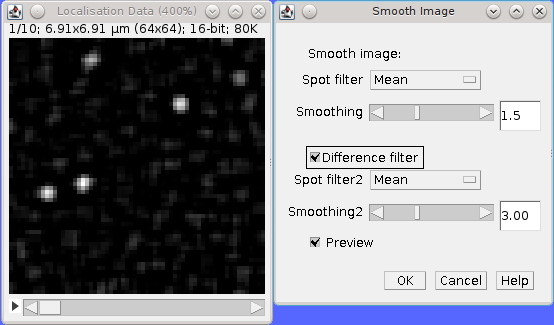
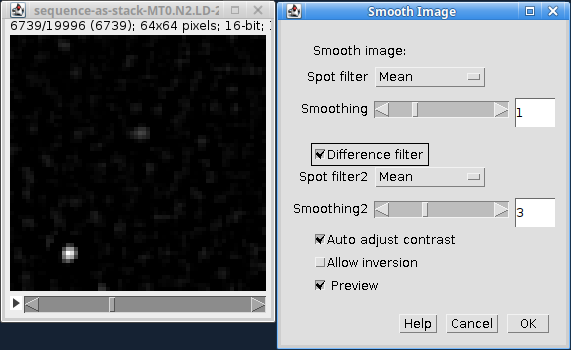
Update Smooth Image docs

diff --git a/docs/tools_plugins.rst b/docs/tools_plugins.rst
@@ -24,7 +24,7 @@ Provides a filter plugin for smoothing an image (see :numref:`Table %s <table_sm
     * - (A) Standard smoothing for a 16-bit image.
 
         |smooth_image_standard_png|
-    * - (B) Difference-of-smoothing for a 32-bit image.
+    * - (B) Difference-of-smoothing for a 16-bit image.
 
         |smooth_image_difference_png|
 
@@ -59,6 +59,25 @@ The following algorithms are available:
 
    * - Median
      - Compute the median in a square region. The region is rounded to integer pixels.
+
+The following additional parameters can be set:
+
+.. list-table::
+   :widths: 20 80
+   :header-rows: 1
+
+   * - Parameter
+     - Description
+
+   * - Auto adjust contrast
+     - Adjust the contrast of the preview using the min and max value of the smoothed image.
+
+   * - Allow inversion
+     - Allow the second smoothing parameter of a difference filter to be smaller that the first. This will create an inverted image where bright spots are dark and possibly surrounded by a ring. If not enabled the plugin raises an error and will disable an active current preview.
+
+   * - Preview
+     - If **true** show a live preview of the smoothing filter.
+
 
 Use the ``Preview`` button to see the effect of smoothing. If you click ``OK`` the plugin will perform smoothing on the entire stack or optionally just the current frame.
 
